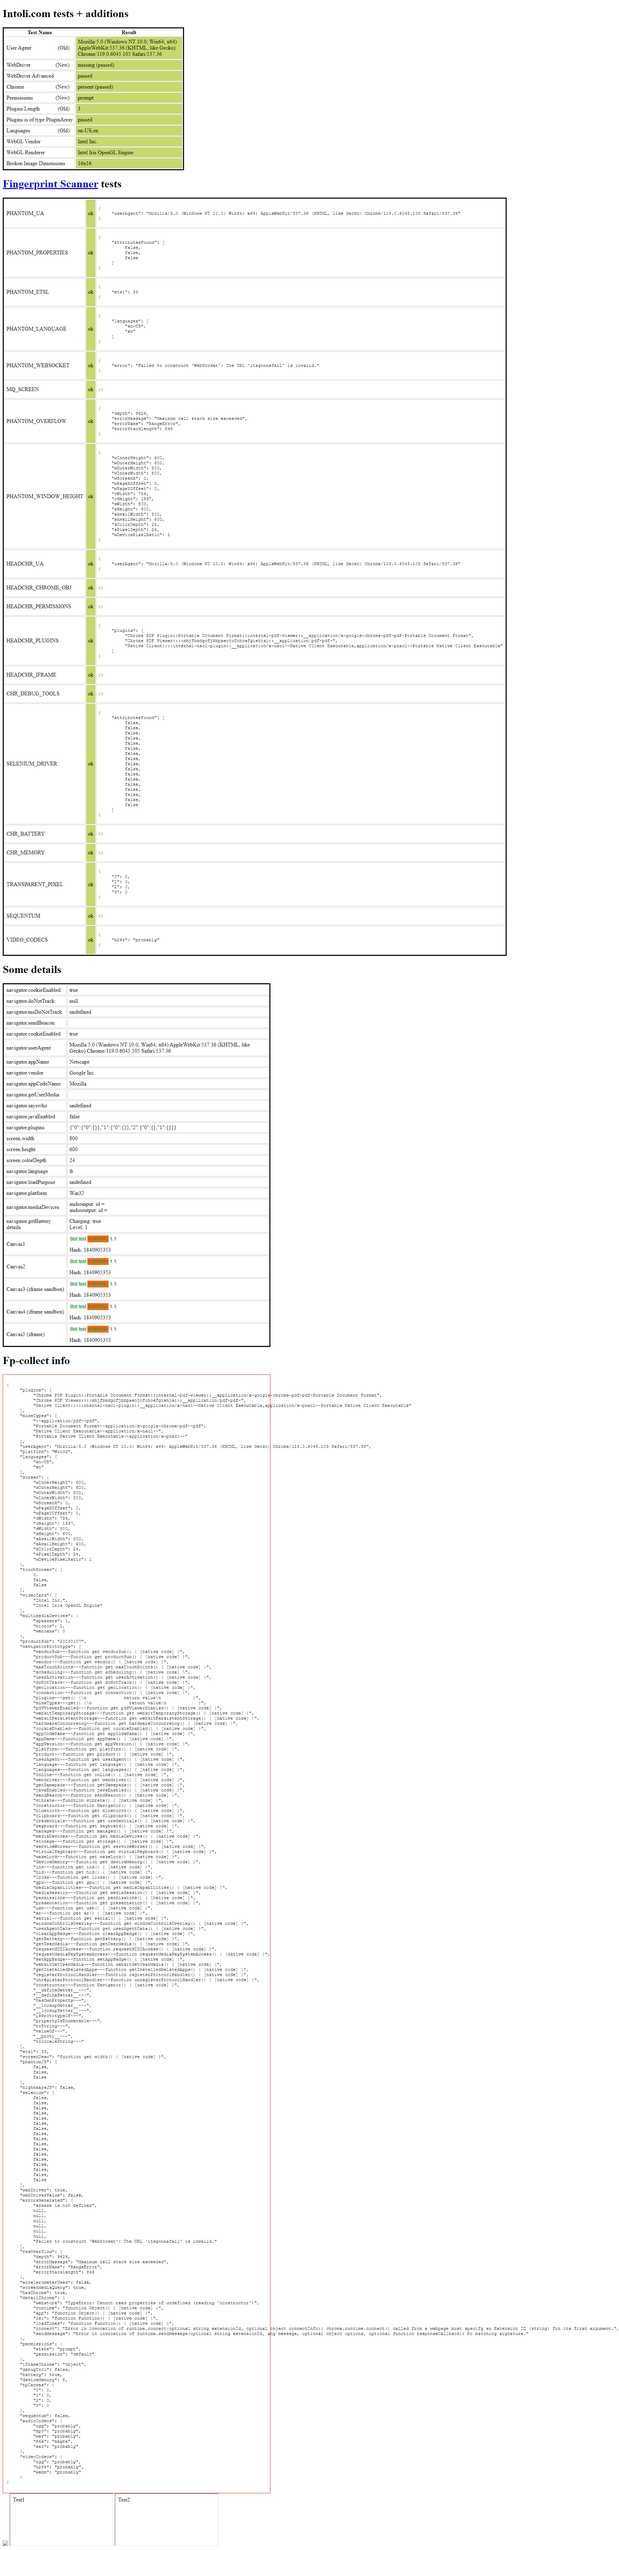
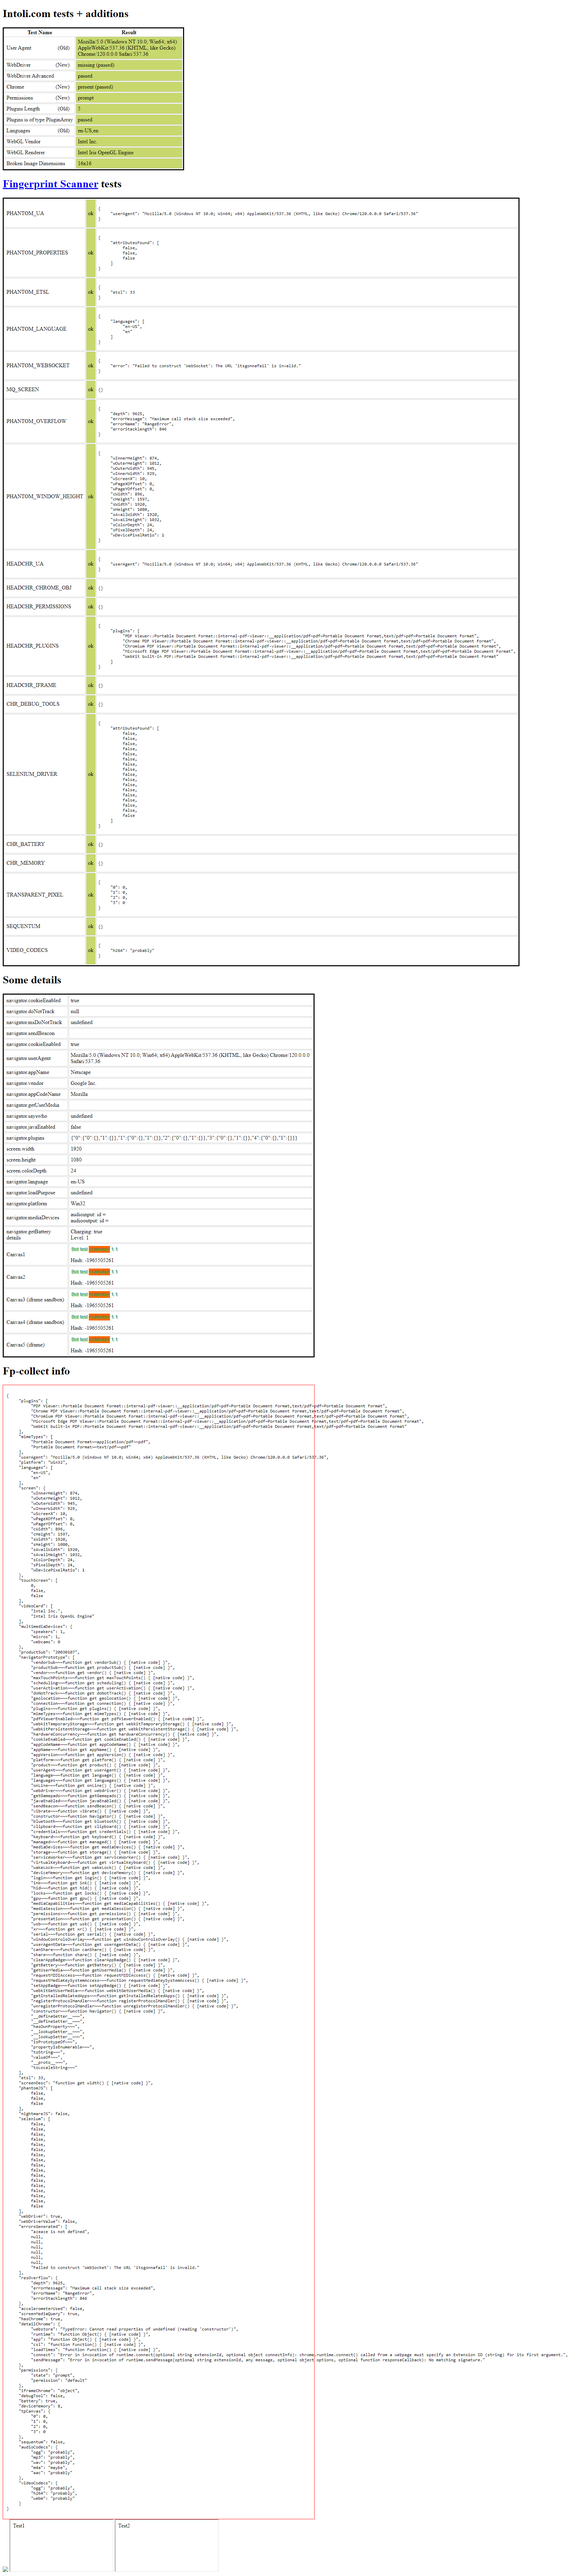
Feat: Usage of Chrome instead of Chromium

diff --git a/01_basis/classes/testIfRobot.js b/01_basis/classes/testIfRobot.js
@@ -10,15 +10,16 @@ export function testIfRobot(filename) {
   console.log(filePath);
 
   (async () => {
-   
+
    puppeteer.use(StealthPlugin());
-   
+
    const browser = await puppeteer.launch({
-    // headless: false,
+    headless: false,
     // slowMo: 200,
     // defaultViewport: false,
     // userDataDir: './tmp',
     // devtools: true
+    executablePath:"C:\\Program Files\\Google\\Chrome\\Application\\chrome.exe"
    });
    console.log('Running test...');
    const page = await browser.newPage();
@@ -26,7 +27,7 @@ export function testIfRobot(filename) {
    await new Promise(r => setTimeout(r, 5000));
    await page.screenshot({ path: filePath, fullPage: true });
 
-   console.log('Oki.')
+   console.log('Screenshot done.')
    await browser.close();
   })()
 
